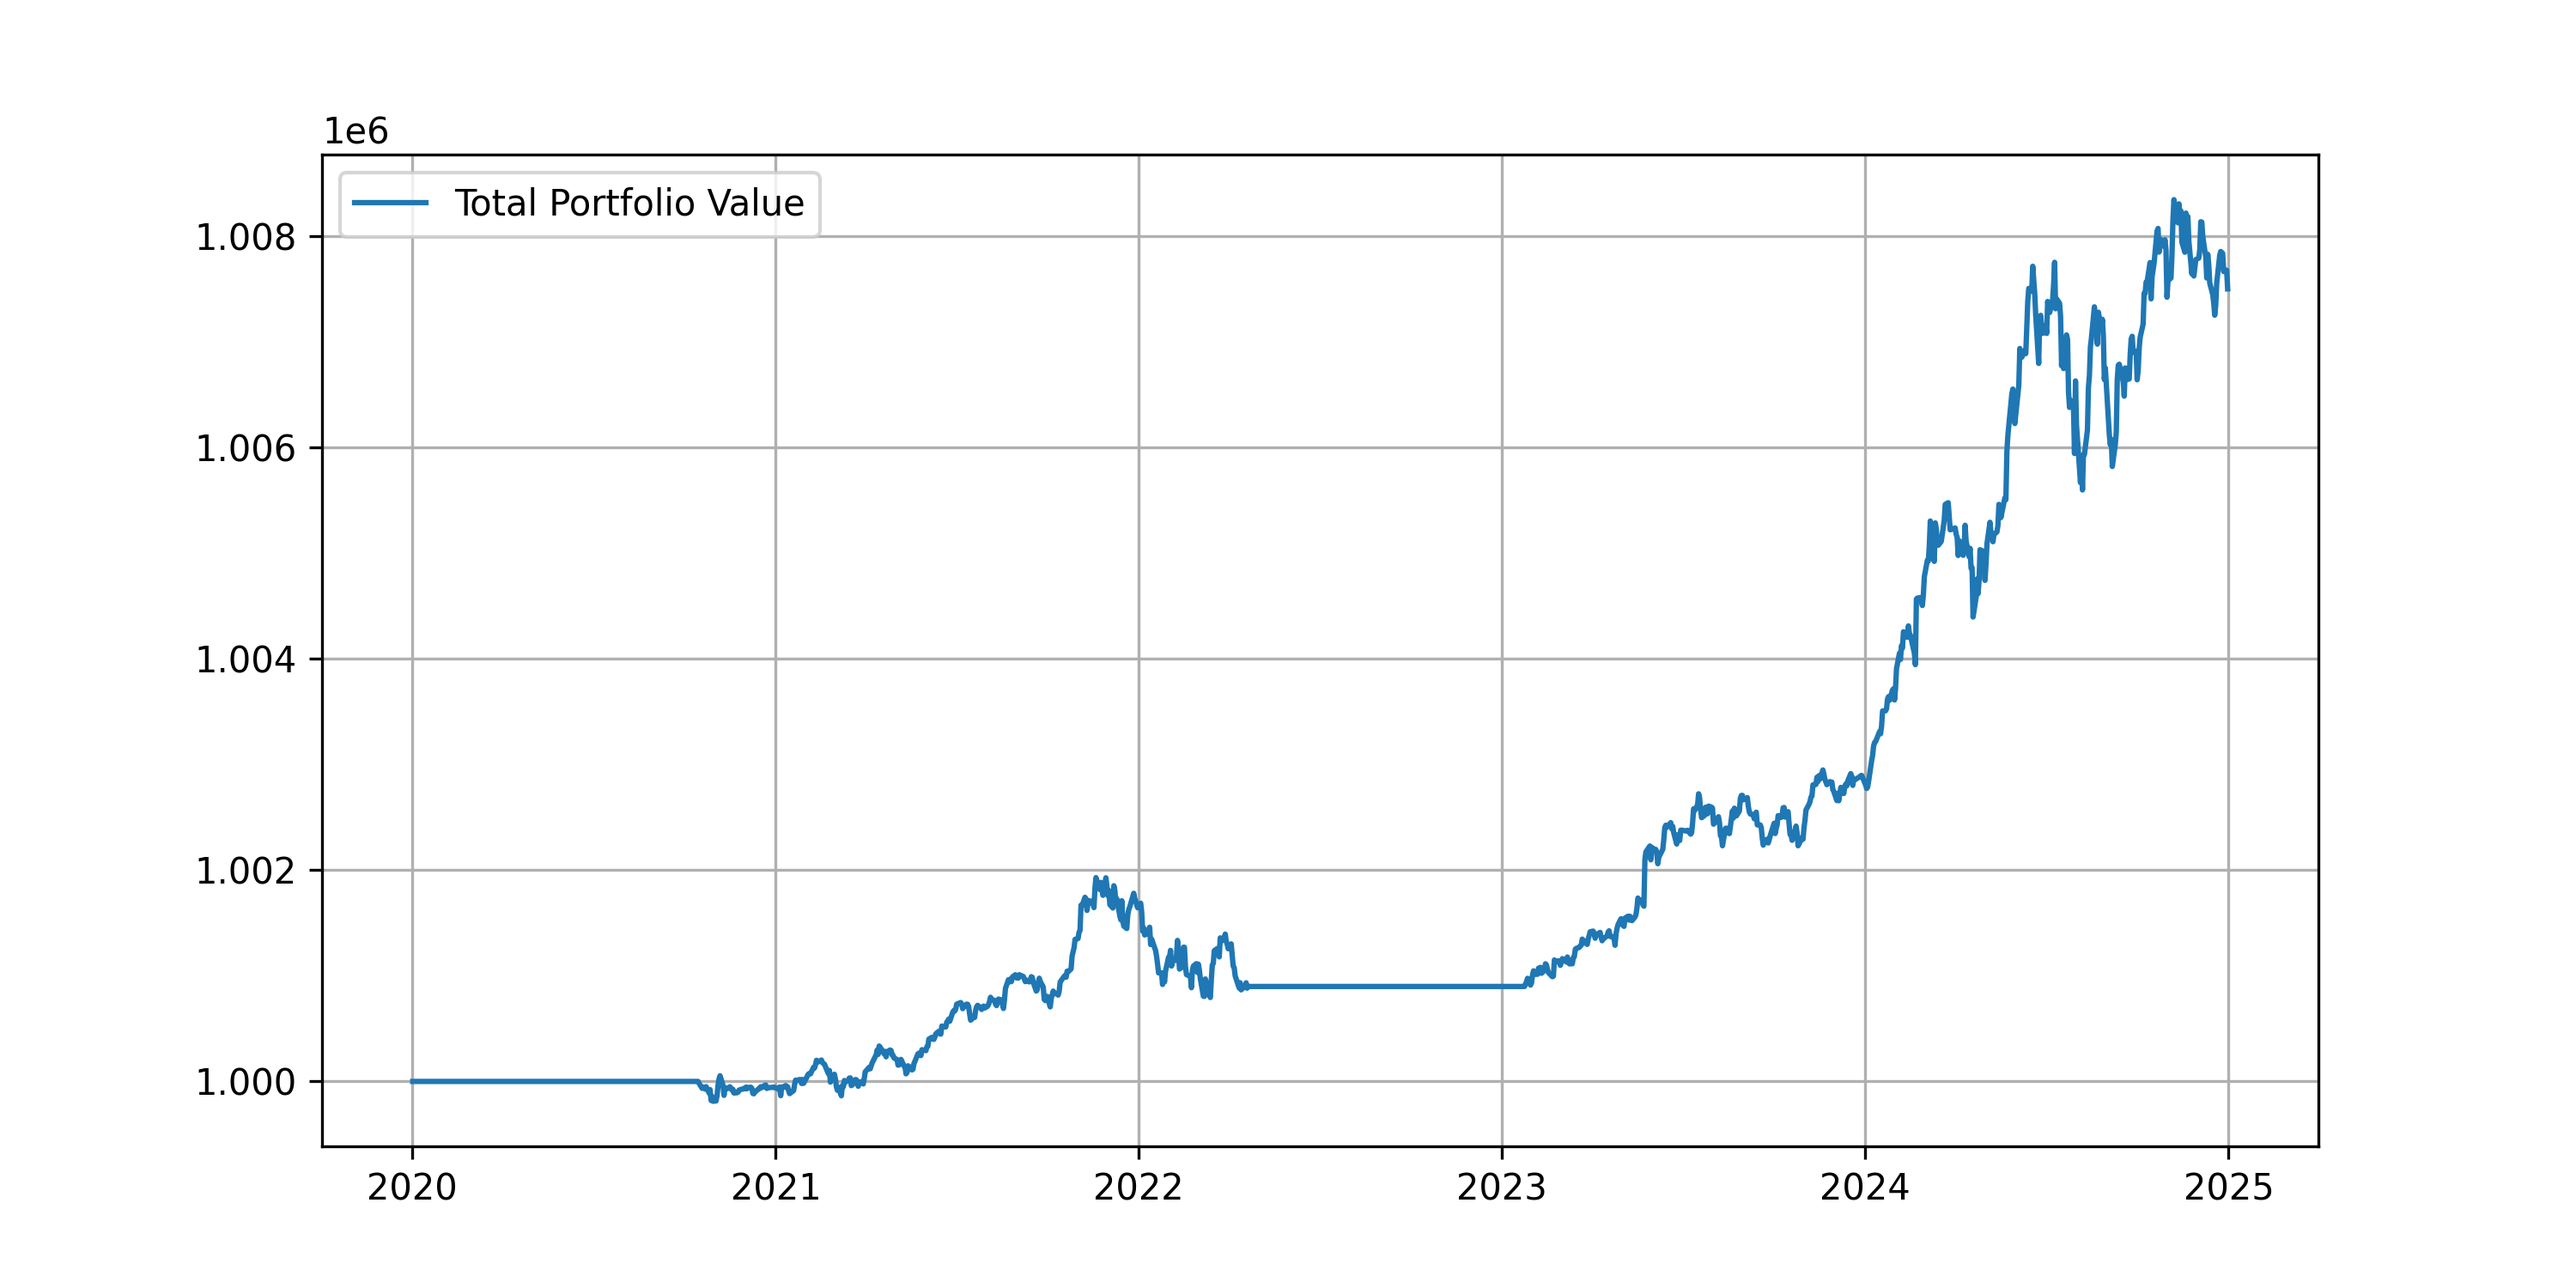
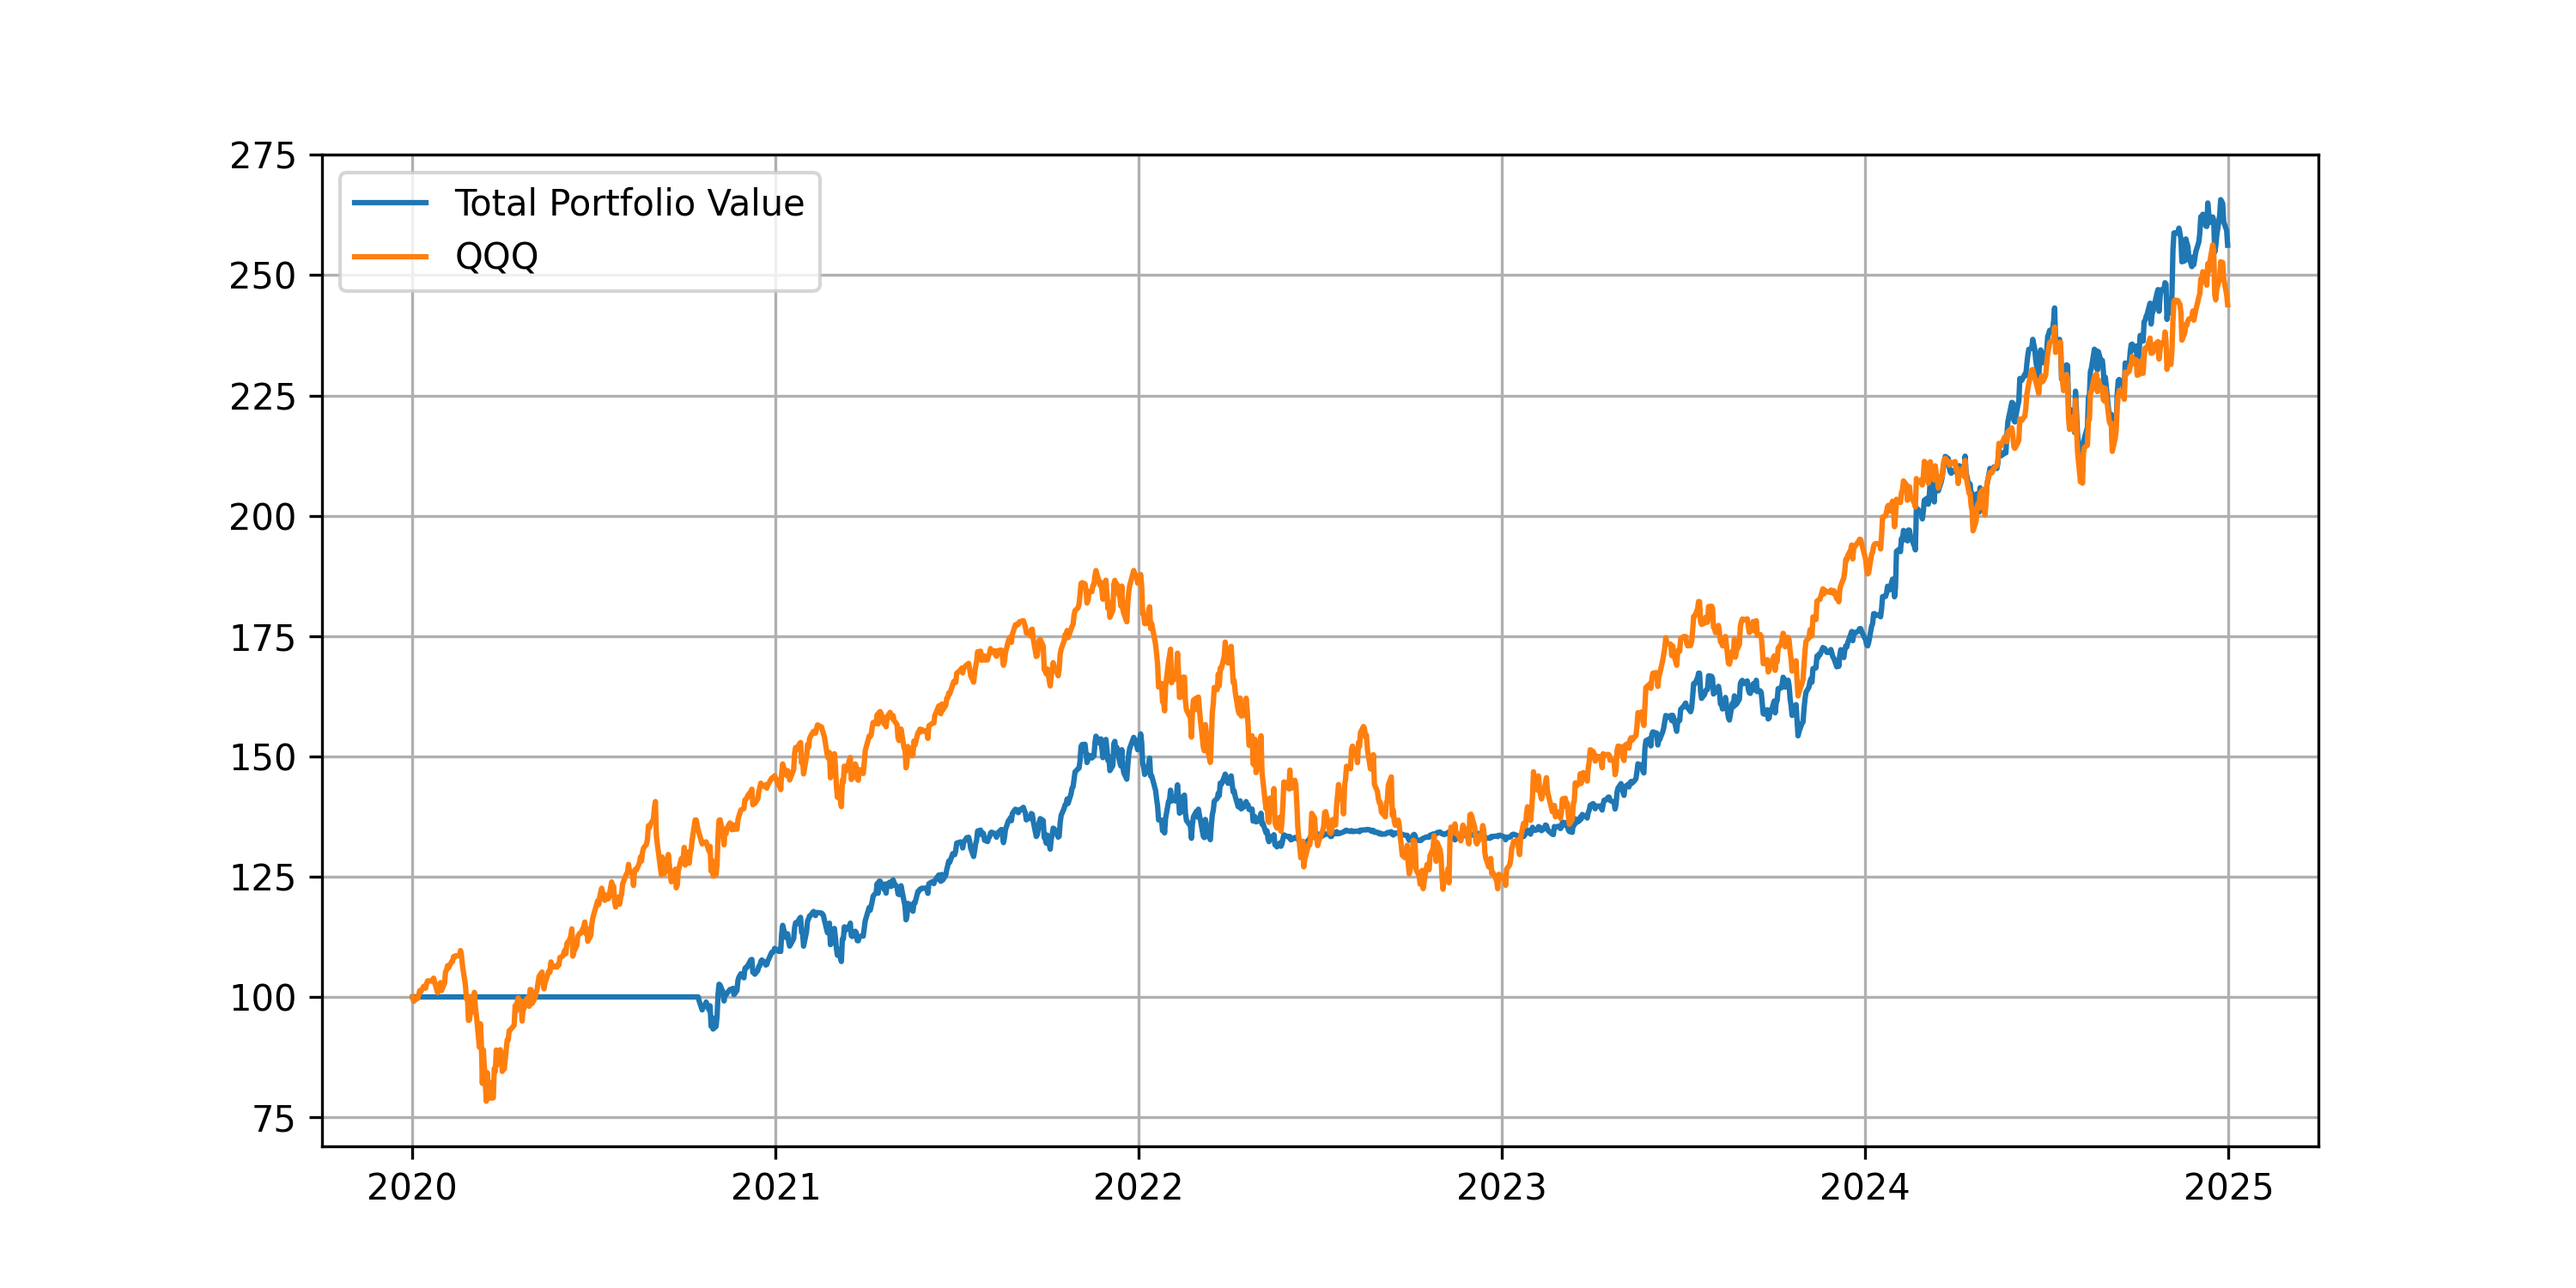
Fix negative cash bug and add comparison with QQQ

diff --git a/src/main.py b/src/main.py
@@ -9,8 +9,12 @@ from rule_based_strategy import SMAStrategy
 from utils import *
 
 # import stock data
-tickers = ["NVDA", "MSFT"]
-df = yf.download(tickers, start="2020-01-01", end="2025-01-01", interval="1d", auto_adjust=True)
+start_date = "2020-01-01"
+end_date = "2025-01-01"
+interval = "1d"
+tickers = ["NVDA", "AAPL", "MSFT", "GOOGL", "AMZN", "TSLA", "META", "JPM", "V", "UNH"]
+df = yf.download(tickers, start=start_date, end=end_date, interval=interval, auto_adjust=True)
+df_baseline = yf.download("QQQ", start=start_date, end=end_date, interval=interval, auto_adjust=True)
 
 # add new indicator columns
 sma50 = df['Close'].apply(lambda s: ta.sma(s, length=50))
@@ -28,7 +32,7 @@ df = pd.concat([df, rsi14], axis=1)
 
 # initialize strategy
 TOTAL_ASSET = 1000000
-BUYIN_UNIT = 1000
+BUYIN_UNIT = 100000
 portfolio = Portfolio(tickers, TOTAL_ASSET)
 trade_history = []
 
@@ -50,18 +54,27 @@ for tick in df.index:
             buyin_price = open_price
             buyin_money = BUYIN_UNIT * actions[i]
             shares = buyin_shares(buyin_money, buyin_price)
-            portfolio.update_trade_history(tick, 'BUY', ticker, shares, buyin_price)
             portfolio.update_cash(-buyin_money)
-            portfolio.update_holdings(ticker, shares, buyin_price)
+            if portfolio.cash_enough:
+                portfolio.update_trade_history(tick, 'BUY', ticker, shares, buyin_price)
+                portfolio.update_holdings(ticker, shares, buyin_price)
+            else:
+                # action not executed, set last action to hold
+                strategy.last_action[i] = strategy.hold
+                
         elif actions[i] < 0: # e.g. action = -0.5, sell half of the shares
             # sell at the open price of the next tick
             sell_price = open_price
             # shares is a positive number
             shares = portfolio.holdings_info[ticker]["shares"]*(-actions[i])
-            revenue = sell_shares(shares, sell_price)  # revenue after fees
-            portfolio.update_trade_history(tick, 'SELL', ticker, shares, sell_price)
-            portfolio.update_cash(revenue)
-            portfolio.update_holdings(ticker, -shares, sell_price)
+            if shares > 0:
+                revenue = sell_shares(shares, sell_price)  # revenue after fees
+                portfolio.update_cash(revenue)
+                portfolio.update_trade_history(tick, 'SELL', ticker, shares, sell_price)
+                portfolio.update_holdings(ticker, -shares, sell_price)
+            else:
+                # action not executed, set last action to hold
+                strategy.last_action[i] = strategy.hold
 
     # update portfolio data at the close price
     portfolio.step(tick, close_prices)
@@ -78,13 +91,19 @@ ax.plot(df.index, df['SMA_200', 'NVDA'], label='SMA 200')
 ax.plot(df.index, df['RSI_14', 'NVDA'], label='RSI 14')
 ax.legend()
 ax.grid()
-# save fig
 plt.savefig('../figures/nvda_closing_prices.png')
 
-# plot total portfolio value over time
+
+# plot total portfolio value over time, compared with QQQ
+# normalize total values as percentages
+portfolio_total = portfolio.total_value_history['Total Value']
+baseline_total = df_baseline['Close', 'QQQ']
+portfolio_total = portfolio_total / portfolio_total.iloc[0] * 100
+baseline_total = baseline_total / baseline_total.iloc[0] * 100
+
 fig, ax = plt.subplots(figsize=(10, 5), dpi=300)
-ax.plot(portfolio.total_value_history.index, portfolio.total_value_history['Total Value'], label='Total Portfolio Value')
+ax.plot(portfolio.total_value_history.index, portfolio_total, label='Total Portfolio Value')
+ax.plot(df.index, baseline_total, label='QQQ')
 ax.legend()
 ax.grid()
-# save fig
 plt.savefig('../figures/portfolio_total_value.png')

diff --git a/src/utils.py b/src/utils.py
@@ -25,6 +25,7 @@ class Portfolio:
         self.total_value = cash
         self.total_value_history = pd.DataFrame(columns=['Total Value'])
         self.trade_history = {ticker: [] for ticker in tickers}
+        self.cash_enough = True
     
     def step(self, tick, current_prices):
         self.total_value = self.cash
@@ -40,7 +41,9 @@ class Portfolio:
             self.holdings_info[ticker]["returns"] = (current_price - average_price) * shares
 
     def update_cash(self, amount):
-        self.cash += amount
+        self.cash_enough = False if self.cash + amount < 0 else True
+        if self.cash_enough:
+            self.cash += amount
     
     def update_holdings(self, ticker, shares, price):
         # note that the price here does not include fees
